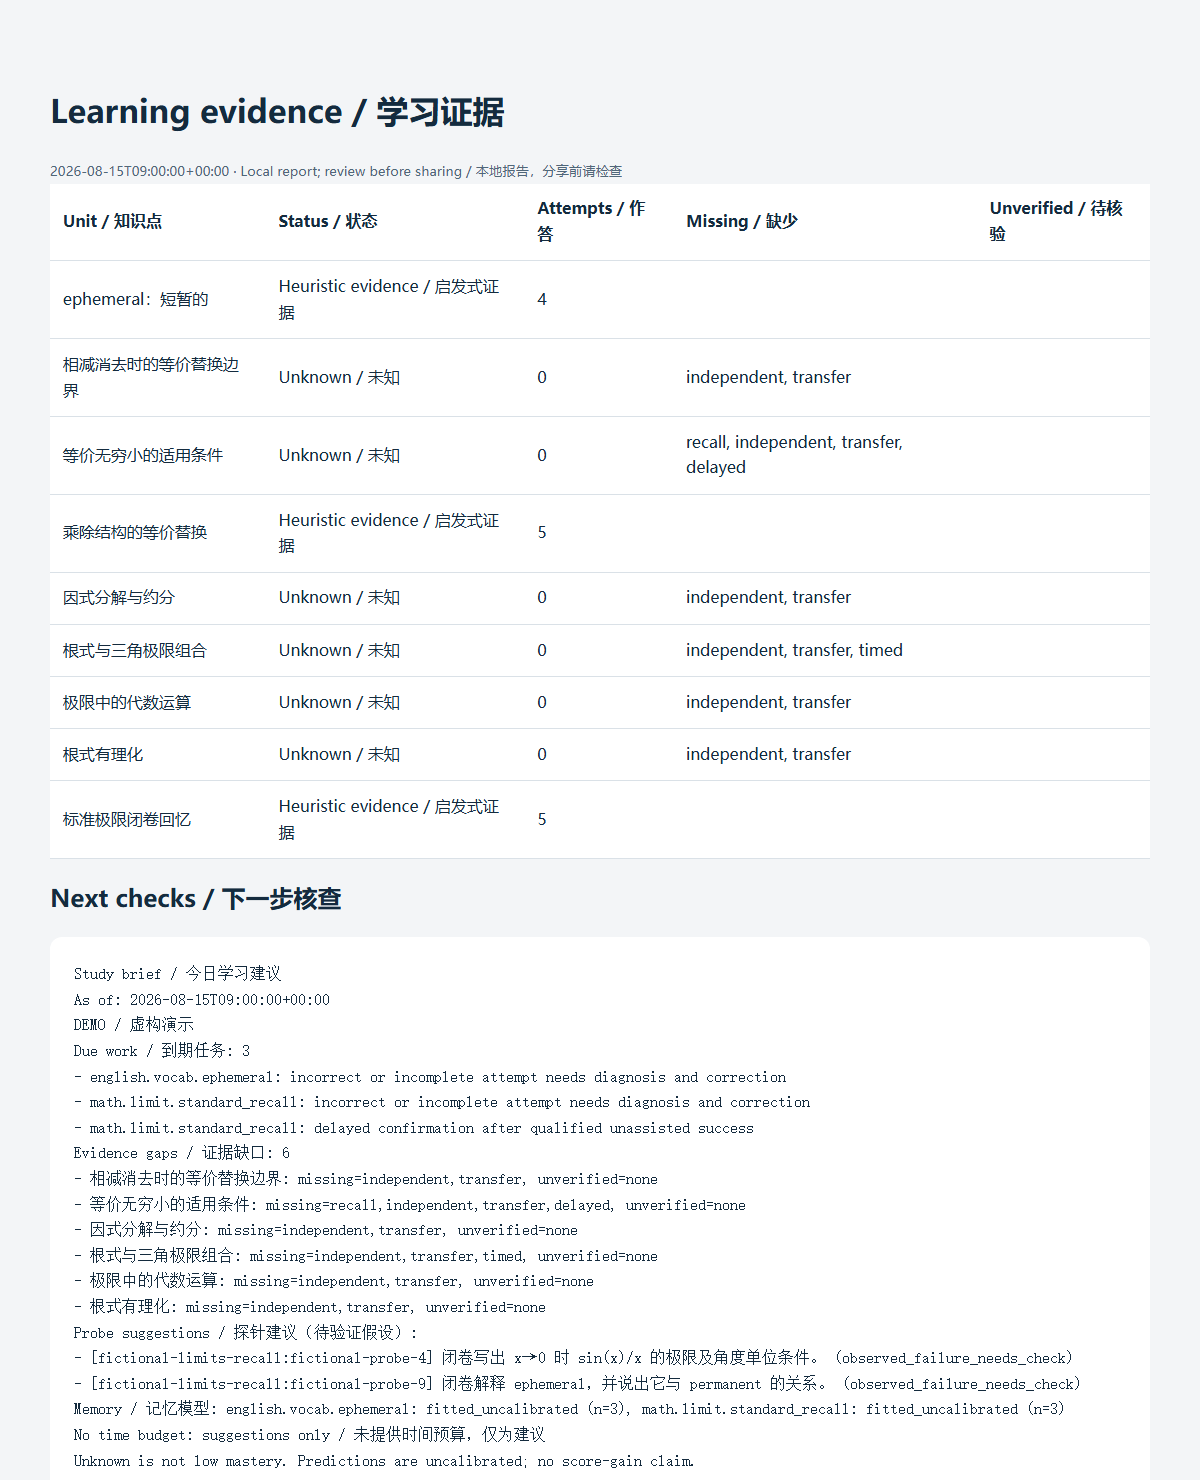
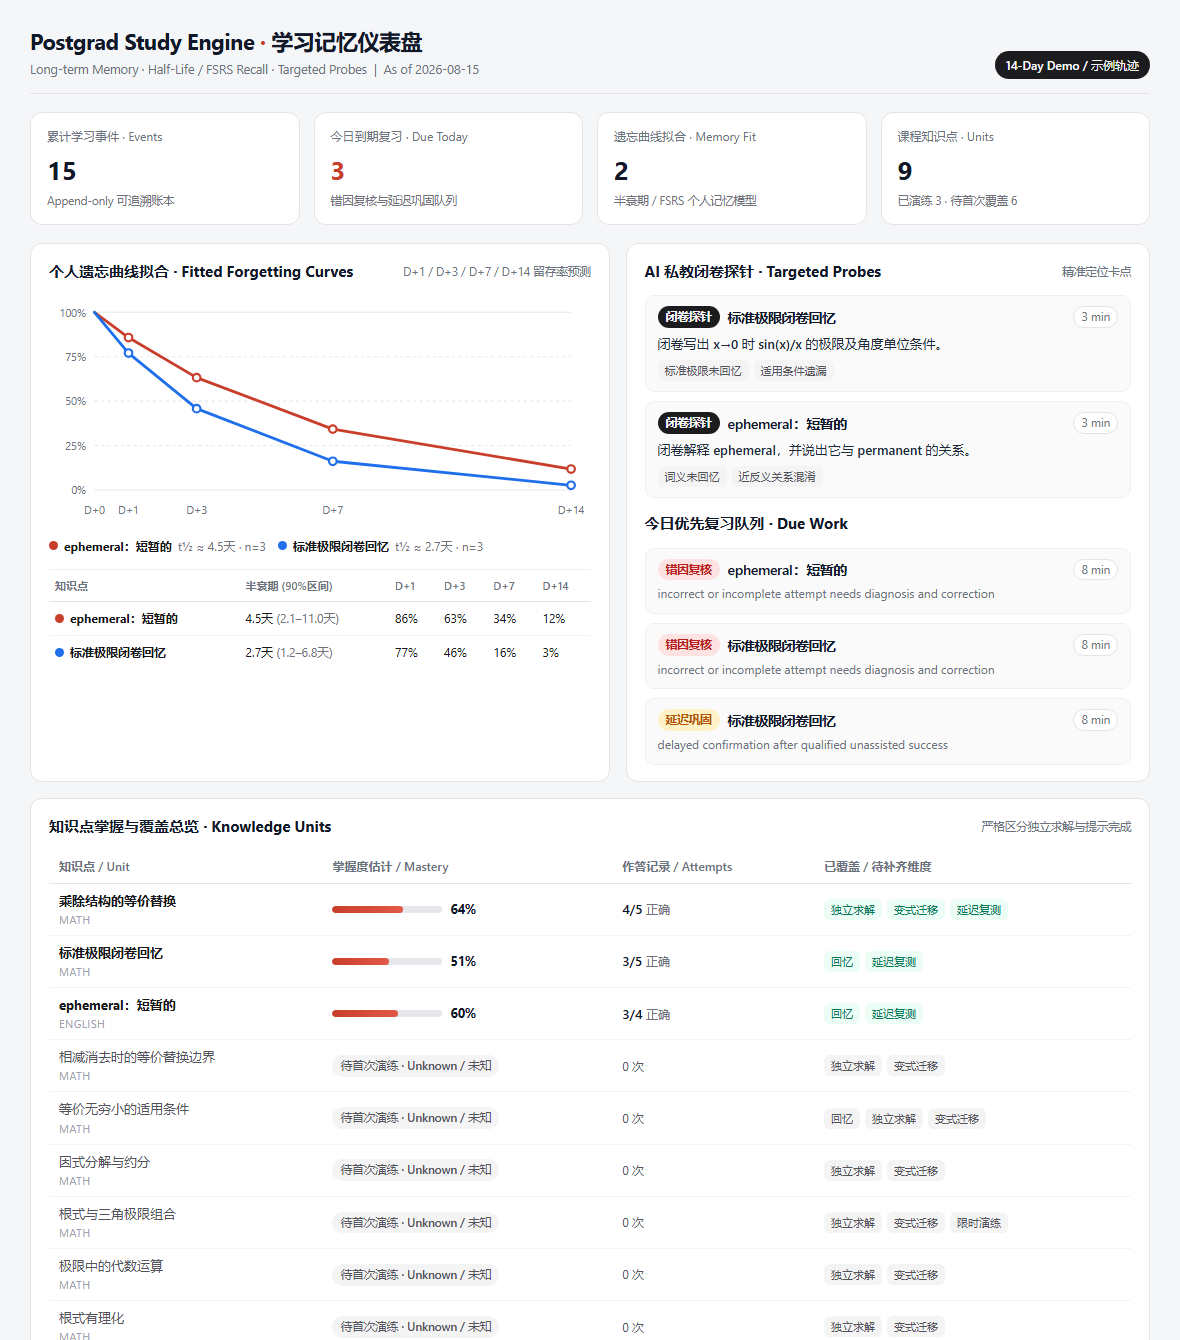
feat(dashboard): upgrade zero-JS HTML dashboard with inline SVG forgetting curves and refresh demo.png

diff --git a/scripts/learning_context.py b/scripts/learning_context.py
@@ -223,27 +223,258 @@ def render_today(context: dict) -> str:
     return "\n".join(lines) + "\n"
 
 
+def _render_memory_svg(memory_models: dict, units: dict, esc) -> str:
+    """Render a zero-JS, pure inline SVG forgetting-curve chart from real fitted models."""
+    fitted = []
+    colors = ("#C83E2B", "#1F6FEB", "#2E7D32", "#8250DF")
+    for uid, m in memory_models.items():
+        curve = m.get("curve_if_recalled_now")
+        if m.get("status") != "fitted_uncalibrated" or not curve:
+            continue
+        title = units.get(uid, {}).get("title") or uid
+        hl = m.get("half_life_days")
+        fitted.append((uid, title, hl, m.get("sample_count", 0), curve))
+    if not fitted:
+        return "<div class='empty'>尚无足够延迟复习样本拟合遗忘曲线 / Add delayed reviews to fit recall curves.</div>"
+
+    w, h = 500, 210
+    pad_l, pad_r, pad_t, pad_b = 42, 18, 16, 30
+    pw, ph = w - pad_l - pad_r, h - pad_t - pad_b
+    max_day = max(max(pt["days"] for pt in item[4]) for item in fitted) or 14
+
+    def sx(day: float) -> float:
+        return pad_l + (day / max_day) * pw
+
+    def sy(prob: float) -> float:
+        return pad_t + (1.0 - max(0.0, min(1.0, prob))) * ph
+
+    grid = []
+    for pct in (0, 25, 50, 75, 100):
+        y = sy(pct / 100.0)
+        dash = " stroke-dasharray='3,3'" if pct not in (0, 100) else ""
+        grid.append(f"<line x1='{pad_l}' y1='{y:.1f}' x2='{w - pad_r}' y2='{y:.1f}' stroke='#E5E7EB' stroke-width='1'{dash}/>")
+        grid.append(f"<text x='{pad_l - 8}' y='{y + 4:.1f}' text-anchor='end' font-size='10' fill='#6B7280'>{pct}%</text>")
+    for d in (0, 1, 3, 7, 14):
+        if d <= max_day:
+            x = sx(d)
+            grid.append(f"<text x='{x:.1f}' y='{h - 8}' text-anchor='middle' font-size='10' fill='#6B7280'>D+{d}</text>")
+
+    paths = []
+    legend = []
+    curve_rows = []
+    for idx, (_uid, title, hl, n_samples, curve) in enumerate(fitted[:4]):
+        color = colors[idx % len(colors)]
+        pts = [(0.0, 1.0)] + [(float(pt["days"]), float(pt["predicted_recall"])) for pt in curve]
+        d_str = " ".join(f"{'M' if i == 0 else 'L'}{sx(dx):.1f},{sy(py):.1f}" for i, (dx, py) in enumerate(pts))
+        paths.append(f"<path d='{d_str}' fill='none' stroke='{color}' stroke-width='2.6' stroke-linecap='round' stroke-linejoin='round'/>")
+        for dx, py in pts[1:]:
+            paths.append(f"<circle cx='{sx(dx):.1f}' cy='{sy(py):.1f}' r='3.5' fill='white' stroke='{color}' stroke-width='2'/>")
+        hl_txt = f"t½ ≈ {hl:.1f}天" if isinstance(hl, (int, float)) else ""
+        legend.append(
+            f"<div class='leg-item'><span class='dot' style='background:{color}'></span>"
+            f"<strong>{esc(title)}</strong><span class='muted'> {esc(hl_txt)} · n={esc(n_samples)}</span></div>"
+        )
+        day_map = {int(pt["days"]): int(round(float(pt["predicted_recall"]) * 100)) for pt in curve}
+        interval = memory_models[_uid].get("model_interval_90_days")
+        ci_txt = f"{interval[0]:.1f}–{interval[1]:.1f}天" if isinstance(interval, list) and len(interval) == 2 else "—"
+        curve_rows.append(
+            "<tr>"
+            f"<td><span class='dot' style='background:{color};margin-right:6px'></span><strong>{esc(title)}</strong></td>"
+            f"<td>{esc(f'{hl:.1f}天' if isinstance(hl, (int, float)) else '—')} <span class='muted'>({esc(ci_txt)})</span></td>"
+            f"<td>{esc(day_map.get(1, '—'))}%</td>"
+            f"<td>{esc(day_map.get(3, '—'))}%</td>"
+            f"<td>{esc(day_map.get(7, '—'))}%</td>"
+            f"<td>{esc(day_map.get(14, '—'))}%</td>"
+            "</tr>"
+        )
+
+    svg = (f"<svg viewBox='0 0 {w} {h}' width='100%' role='img' aria-label='Fitted forgetting curves'>"
+           + "".join(grid) + "".join(paths) + "</svg>")
+    detail_tbl = (
+        "<table class='mini-tbl'><thead><tr>"
+        "<th>知识点</th><th>半衰期 (90%区间)</th><th>D+1</th><th>D+3</th><th>D+7</th><th>D+14</th>"
+        "</tr></thead><tbody>" + "".join(curve_rows) + "</tbody></table>"
+    )
+    return svg + "<div class='legend'>" + "".join(legend) + "</div>" + detail_tbl
+
+
 def render_dashboard(context: dict) -> str:
     """No scripts, remote requests or embedded raw evidence; escape all text."""
     esc = lambda value: html.escape(str(value), quote=True)
+    units = context["state"]["units"]
+    target_labels = {
+        "comprehension": "理解",
+        "recall": "回忆",
+        "independent": "独立求解",
+        "transfer": "变式迁移",
+        "delayed": "延迟复测",
+        "timed": "限时演练",
+    }
+    task_type_labels = {
+        "correction": ("错因复核", "pill-red"),
+        "review": ("延迟巩固", "pill-amber"),
+        "diagnostic": ("诊断核查", "pill-blue"),
+        "targeted_variant": ("变式迁移", "pill-blue"),
+    }
+
+    practiced_units = [u for u in units.values() if u["mastery_overall"] is not None]
+    unpracticed_units = [u for u in units.values() if u["mastery_overall"] is None]
+    practiced_units.sort(key=lambda u: (-u["attempts"]["total"], u["unit_id"]))
+    unpracticed_units.sort(key=lambda u: u["unit_id"])
+
+    fitted_count = sum(1 for m in context["models"]["memory"].values() if m.get("status") == "fitted_uncalibrated")
+    due_work = context["due_work"]
+    probes = context["diagnostics"]["selected"]
+    mode_badge = "14-Day Demo / 示例轨迹" if context["learner"]["mode"] == "demo" else "Private Vault / 私人档案"
+
+    # Due work cards
+    due_items = []
+    for task in due_work:
+        u_title = units.get(task["unit_id"], {}).get("title") or task["unit_id"]
+        t_label, t_cls = task_type_labels.get(task.get("task_type"), ("待复习", "pill-gray"))
+        mins = task.get("estimated_minutes")
+        min_badge = f"<span class='meta'>{esc(mins)} min</span>" if mins else ""
+        due_items.append(
+            "<div class='item'>"
+            f"<div class='item-top'><span class='pill {t_cls}'>{esc(t_label)}</span>"
+            f"<span class='item-title'>{esc(u_title)}</span>{min_badge}</div>"
+            f"<div class='item-sub'>{esc(task['reason'])}</div>"
+            "</div>"
+        )
+    due_html = "".join(due_items) or "<div class='empty'>今日暂无到期复习任务 / No due items today.</div>"
+
+    # Diagnostic probes cards
+    probe_items = []
+    for p in probes:
+        u_title = units.get(p["unit_id"], {}).get("title") or p["unit_id"]
+        tags = "".join(f"<span class='chip'>{esc(d)}</span>" for d in p.get("distinguishes", []))
+        probe_items.append(
+            "<div class='item'>"
+            f"<div class='item-top'><span class='pill pill-dark'>闭卷探针</span>"
+            f"<span class='item-title'>{esc(u_title)}</span>"
+            f"<span class='meta'>{esc(p.get('estimated_minutes', 3))} min</span></div>"
+            f"<div class='probe-q'>{esc(p['prompt'])}</div>"
+            f"<div class='chips'>{tags}</div>"
+            "</div>"
+        )
+    probe_html = "".join(probe_items) or "<div class='empty'>暂无待核查探针 / No targeted probes queued.</div>"
+
+    # Unit mastery table rows (practiced units with bars first, then unpracticed)
     rows = []
-    for u in context["state"]["units"].values():
-        coverage = u["evidence_coverage"]
-        label = "Unknown / 未知" if u["mastery_overall"] is None else "Heuristic evidence / 启发式证据"
-        rows.append("<tr>" + "".join(f"<td>{esc(x)}</td>" for x in
-                    (u["title"], label, u["attempts"]["total"], ", ".join(coverage["missing_targets"]),
-                     ", ".join(coverage["unverified_targets"]))) + "</tr>")
-    body = render_today(context)
-    return ("<!doctype html><html lang='zh-CN'><meta charset='utf-8'>"
-            "<meta name='viewport' content='width=device-width,initial-scale=1'>"
-            "<meta http-equiv='Content-Security-Policy' content=\"default-src 'none'; style-src 'unsafe-inline'\">"
-            "<title>Evidence-based study brief</title><style>"
-            "body{font:16px/1.6 system-ui,sans-serif;background:#f3f5f7;color:#142b3e;max-width:1100px;margin:3rem auto;padding:1rem}"
-            "h1{font-size:2rem}table{border-collapse:collapse;background:white;width:100%}td,th{text-align:left;padding:.8rem;border-bottom:1px solid #dae1e7}"
-            "pre{white-space:pre-wrap;background:white;padding:1.5rem;border-radius:12px}small{color:#506779}</style>"
-            "<h1>Learning evidence / 学习证据</h1><small>"
-            + esc(context["as_of"]) + " · Local report; review before sharing / 本地报告，分享前请检查</small>"
-            "<table><thead><tr><th>Unit / 知识点</th><th>Status / 状态</th><th>Attempts / 作答</th>"
-            "<th>Missing / 缺少</th><th>Unverified / 待核验</th></tr></thead><tbody>"
-            + "".join(rows) + "</tbody></table><h2>Next checks / 下一步核查</h2><pre>"
-            + esc(body) + "</pre></html>")
+    for u in practiced_units:
+        pct = int(round(float(u["mastery_overall"]) * 100))
+        att = u["attempts"]
+        obs = "".join(f"<span class='chip chip-ok'>{esc(target_labels.get(t, t))}</span>"
+                      for t in u["evidence_coverage"]["observed_targets"])
+        rows.append(
+            "<tr>"
+            f"<td><strong>{esc(u['title'])}</strong><div class='sub-id'>{esc(u['subject'])}</div></td>"
+            f"<td><div class='bar-wrap'><div class='bar-track'><div class='bar-fill' style='width:{pct}%'></div></div>"
+            f"<span class='bar-num'>{pct}%</span></div></td>"
+            f"<td><span class='stat-num'>{esc(att['correct'])}/{esc(att['total'])}</span> <span class='muted'>正确</span></td>"
+            f"<td><div class='chips'>{obs or '<span class=\"muted\">—</span>'}</div></td>"
+            "</tr>"
+        )
+    for u in unpracticed_units:
+        missing = "".join(f"<span class='chip'>{esc(target_labels.get(t, t))}</span>"
+                          for t in u["evidence_coverage"]["missing_targets"][:3])
+        rows.append(
+            "<tr class='row-dim'>"
+            f"<td>{esc(u['title'])}<div class='sub-id'>{esc(u['subject'])}</div></td>"
+            "<td><span class='pill pill-gray'>待首次演练 · Unknown / 未知</span></td>"
+            "<td class='muted'>0 次</td>"
+            f"<td><div class='chips'>{missing}</div></td>"
+            "</tr>"
+        )
+
+    memory_svg = _render_memory_svg(context["models"]["memory"], units, esc)
+    as_of_short = str(context["as_of"])[:10]
+
+    return (
+        "<!doctype html><html lang='zh-CN'><meta charset='utf-8'>"
+        "<meta name='viewport' content='width=device-width,initial-scale=1'>"
+        "<meta http-equiv='Content-Security-Policy' content=\"default-src 'none'; style-src 'unsafe-inline'\">"
+        "<title>Postgrad Study Engine · Learning Dashboard</title><style>"
+        "*{box-sizing:border-box}"
+        "body{font:14px/1.55 -apple-system,BlinkMacSystemFont,'Segoe UI','PingFang SC','Microsoft YaHei',sans-serif;"
+        "background:#F5F6F8;color:#18181B;margin:0;padding:24px}"
+        ".wrap{max-width:1120px;margin:0 auto}"
+        ".header{display:flex;justify-content:space-between;align-items:flex-end;margin-bottom:18px;padding-bottom:14px;border-bottom:1px solid #E4E4E7}"
+        ".brand{font-size:22px;font-weight:700;letter-spacing:-.02em;color:#111827}"
+        ".brand span{color:#C83E2B}"
+        ".subtitle{font-size:12.5px;color:#6B7280;margin-top:2px}"
+        ".badge-top{background:#1C1C1E;color:#F9FAFB;padding:5px 11px;border-radius:999px;font-size:12px;font-weight:500}"
+        ".kpis{display:grid;grid-template-columns:repeat(4,1fr);gap:14px;margin-bottom:18px}"
+        ".kpi{background:#FFF;border:1px solid #E4E4E7;border-radius:12px;padding:14px 16px}"
+        ".kpi-label{font-size:12px;color:#6B7280}"
+        ".kpi-val{font-size:26px;font-weight:700;color:#111827;margin:4px 0 2px}"
+        ".kpi-val.accent{color:#C83E2B}"
+        ".kpi-note{font-size:11.5px;color:#71717A}"
+        ".grid2{display:grid;grid-template-columns:1.05fr .95fr;gap:16px;margin-bottom:16px}"
+        ".card{background:#FFF;border:1px solid #E4E4E7;border-radius:12px;padding:16px 18px}"
+        ".card-title{font-size:15px;font-weight:700;color:#111827;margin:0 0 12px;display:flex;justify-content:space-between;align-items:center}"
+        ".card-title small{font-size:11.5px;font-weight:400;color:#6B7280}"
+        ".legend{display:flex;flex-wrap:wrap;gap:12px;margin-top:8px;font-size:12px}"
+        ".leg-item{display:flex;align-items:center;gap:6px}"
+        ".dot{width:9px;height:9px;border-radius:50%;display:inline-block}"
+        ".item{padding:10px 12px;border:1px solid #F0F0F2;background:#FAFAFB;border-radius:9px;margin-bottom:9px}"
+        ".item:last-child{margin-bottom:0}"
+        ".item-top{display:flex;align-items:center;gap:8px;flex-wrap:wrap}"
+        ".item-title{font-weight:600;color:#111827;font-size:13.5px}"
+        ".item-sub{font-size:12px;color:#6B7280;margin-top:4px}"
+        ".probe-q{font-size:13px;color:#1F2937;margin:6px 0;font-weight:500}"
+        ".meta{margin-left:auto;font-size:11.5px;color:#6B7280;background:#FFF;border:1px solid #E4E4E7;padding:1px 7px;border-radius:999px}"
+        ".pill{display:inline-block;padding:2px 8px;border-radius:999px;font-size:11.5px;font-weight:600}"
+        ".pill-red{background:#FEE2E2;color:#B91C1C}"
+        ".pill-amber{background:#FEF3C7;color:#B45309}"
+        ".pill-blue{background:#DBEAFE;color:#1D4ED8}"
+        ".pill-dark{background:#1C1C1E;color:#F9FAFB}"
+        ".pill-gray{background:#F4F4F5;color:#52525B;font-weight:500}"
+        ".chips{display:flex;flex-wrap:wrap;gap:5px}"
+        ".chip{font-size:11px;padding:2px 7px;border-radius:6px;background:#F4F4F5;color:#52525B}"
+        ".chip-ok{background:#ECFDF5;color:#047857}"
+        "table{width:100%;border-collapse:collapse;font-size:13px}"
+        "th{text-align:left;font-size:12px;color:#6B7280;font-weight:600;padding:7px 10px;border-bottom:1px solid #E4E4E7}"
+        "td{padding:7px 10px;border-bottom:1px solid #F4F4F5;vertical-align:middle}"
+        ".mini-tbl{margin-top:14px;font-size:12px;border-top:1px solid #F0F0F2}"
+        ".mini-tbl th{font-size:11px;padding:7px 6px}"
+        ".mini-tbl td{padding:7px 6px}"
+        "tr:last-child td{border-bottom:none}"
+        ".row-dim td{color:#52525B}"
+        ".sub-id{font-size:11px;color:#9CA3AF;text-transform:uppercase;letter-spacing:.04em}"
+        ".bar-wrap{display:flex;align-items:center;gap:8px}"
+        ".bar-track{width:110px;height:7px;background:#E5E7EB;border-radius:999px;overflow:hidden}"
+        ".bar-fill{height:100%;background:linear-gradient(90deg,#C83E2B,#E05A47);border-radius:999px}"
+        ".bar-num{font-weight:700;font-size:12.5px;color:#111827}"
+        ".stat-num{font-weight:600;color:#111827}"
+        ".muted{color:#71717A;font-size:12px}"
+        ".empty{color:#71717A;font-size:13px;padding:12px 0}"
+        ".footer{margin-top:12px;font-size:11.5px;color:#71717A;display:flex;justify-content:space-between}"
+        "</style><div class='wrap'>"
+        "<div class='header'><div>"
+        "<div class='brand'>Postgrad Study Engine <span>·</span> 学习记忆仪表盘</div>"
+        f"<div class='subtitle'>Long-term Memory · Half-Life / FSRS Recall · Targeted Probes &nbsp;|&nbsp; As of {esc(as_of_short)}</div>"
+        f"</div><div class='badge-top'>{esc(mode_badge)}</div></div>"
+        "<div class='kpis'>"
+        f"<div class='kpi'><div class='kpi-label'>累计学习事件 · Events</div><div class='kpi-val'>{esc(context['state']['event_count'])}</div><div class='kpi-note'>Append-only 可追溯账本</div></div>"
+        f"<div class='kpi'><div class='kpi-label'>今日到期复习 · Due Today</div><div class='kpi-val accent'>{esc(len(due_work))}</div><div class='kpi-note'>错因复核与延迟巩固队列</div></div>"
+        f"<div class='kpi'><div class='kpi-label'>遗忘曲线拟合 · Memory Fit</div><div class='kpi-val'>{esc(fitted_count)}</div><div class='kpi-note'>半衰期 / FSRS 个人记忆模型</div></div>"
+        f"<div class='kpi'><div class='kpi-label'>课程知识点 · Units</div><div class='kpi-val'>{esc(len(units))}</div><div class='kpi-note'>已演练 {esc(len(practiced_units))} · 待首次覆盖 {esc(len(unpracticed_units))}</div></div>"
+        "</div>"
+        "<div class='grid2'>"
+        "<div class='card'><div class='card-title'>个人遗忘曲线拟合 · Fitted Forgetting Curves<small>D+1 / D+3 / D+7 / D+14 留存率预测</small></div>"
+        + memory_svg +
+        "</div>"
+        "<div class='card'><div class='card-title'>AI 私教闭卷探针 · Targeted Probes<small>精准定位卡点</small></div>"
+        + probe_html +
+        "<div class='card-title' style='margin-top:14px'>今日优先复习队列 · Due Work</div>"
+        + due_html +
+        "</div></div>"
+        "<div class='card'><div class='card-title'>知识点掌握与覆盖总览 · Knowledge Units<small>严格区分独立求解与提示完成</small></div>"
+        "<table><thead><tr><th>知识点 / Unit</th><th>掌握度估计 / Mastery</th><th>作答记录 / Attempts</th><th>已覆盖 / 待补齐维度</th></tr></thead><tbody>"
+        + "".join(rows) +
+        "</tbody></table></div>"
+        "<div class='footer'><span>Postgrad Study Engine · Zero-Dependency Local Report</span>"
+        "<span>Heuristic estimates &amp; uncalibrated recall curves for study guidance</span></div>"
+        "</div></html>"
+    )
